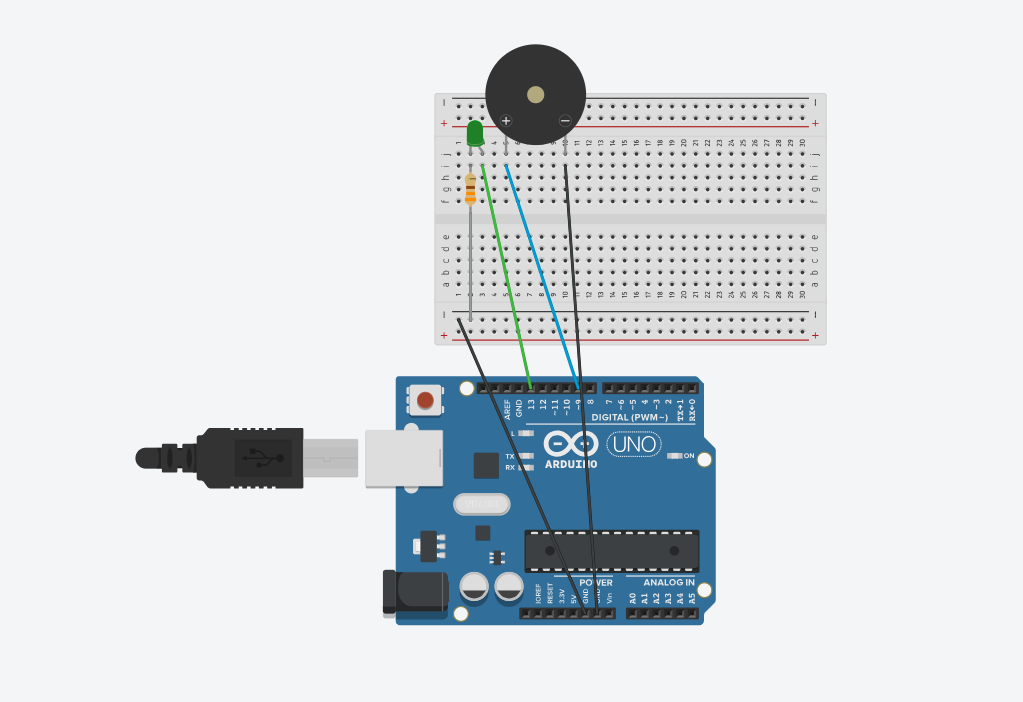
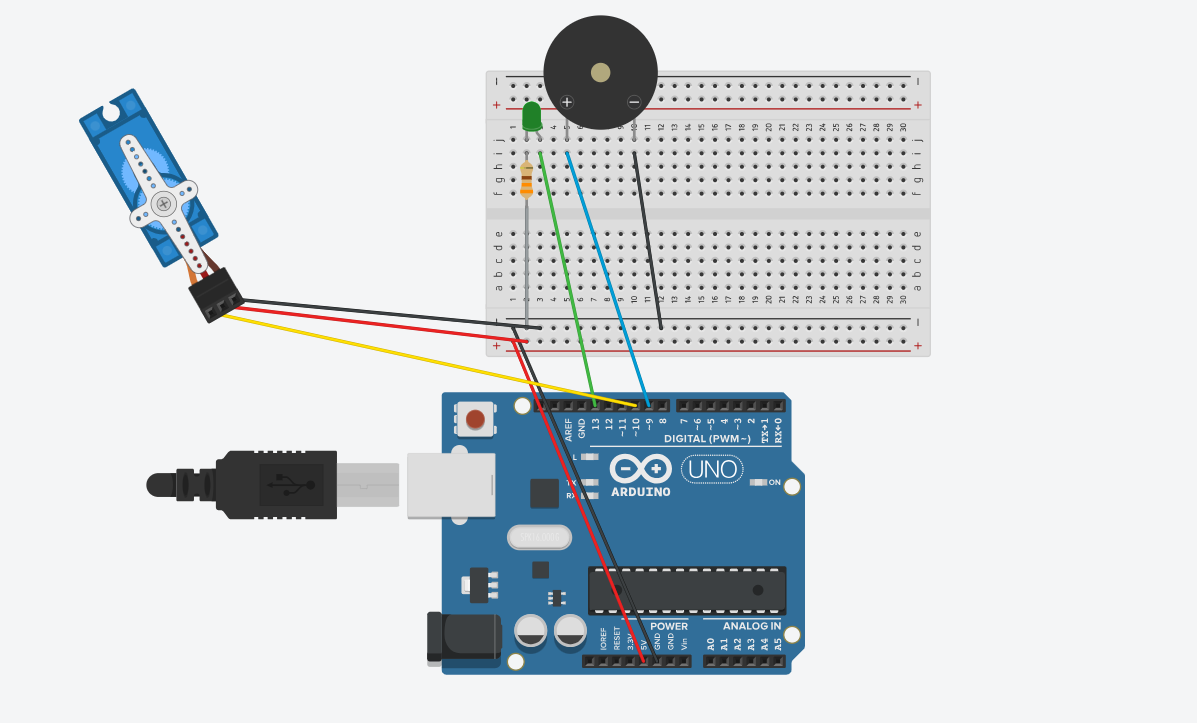
Atualizando para colocar o servo

Changed region(s): [[0.0606, 0.0, 0.8182, 0.9573]]

diff --git a/main.py b/main.py
@@ -1,49 +1,27 @@
 import cv2
 import mediapipe as mp
-from mediapipe.python.solutions.drawing_utils import _normalized_to_pixel_coordinates
 import math
 import numpy as np
 from serial import Serial
 import time
 
 
-def _map(x, in_min, in_max, out_min, out_max):
+def map_value(x, in_min, in_max, out_min, out_max):
+    """
+    Mapeia um valor de um intervalo para outro.
+    """
     return int((x - in_min) * (out_max - out_min) / (in_max - in_min) + out_min)
 
-
-def main():
-    mp_face_mesh = mp.solutions.face_mesh
-
-    cap = cv2.VideoCapture(0, cv2.CAP_DSHOW)
-
-    cap.set(cv2.CAP_PROP_FPS, 25.0)
-    width = cap.get(cv2.CAP_PROP_FRAME_WIDTH)
-    height = cap.get(cv2.CAP_PROP_FRAME_HEIGHT)
-    print(height)
-    ratios = []
-
-    openedEyes = 500
-    closedEyes = 0
-    blinkMap = 0
-    piscando = False
-    blinkCount = 0
-    calibrating = True
-
-    # Configurar a comunicação serial com o Arduino
-    arduino = Serial("COM3", 9600)  # Substitua 'COM5' pela porta correta do seu Arduino
-
-    closed_eye_start_time = None
-    eye_closed_duration = (
-        1  # Duration for which the eye should be closed to trigger the Arduino command
-    )
-
-    with mp_face_mesh.FaceMesh(
+def detect_face_landmarks(cap, width, height):
+    """
+    Detecta os marcos faciais na imagem.
+    """
+    with mp.solutions.face_mesh.FaceMesh(
         max_num_faces=1,
         refine_landmarks=True,
         min_detection_confidence=0.5,
         min_tracking_confidence=0.5,
     ) as face_mesh:
-
         while cap.isOpened():
             success, image = cap.read()
             if not success:
@@ -59,106 +37,177 @@ def main():
 
             if results.multi_face_landmarks:
                 face_landmarks = results.multi_face_landmarks[0].landmark
+                return image, face_landmarks
+    return None, None
 
-                cord1 = _normalized_to_pixel_coordinates(
-                    face_landmarks[159].x, face_landmarks[159].y, width, height
+def calculate_eye_ratios(face_landmarks, width, height):
+    """
+    Calcula as razões das distâncias entre os olhos.
+    """
+    cord1 = _normalized_to_pixel_coordinates(
+        face_landmarks[159].x, face_landmarks[159].y, width, height
+    )
+    cord2 = _normalized_to_pixel_coordinates(
+        face_landmarks[145].x, face_landmarks[145].y, width, height
+    )
+    cord3 = _normalized_to_pixel_coordinates(
+        face_landmarks[33].x, face_landmarks[33].y, width, height
+    )
+    cord4 = _normalized_to_pixel_coordinates(
+        face_landmarks[133].x, face_landmarks[133].y, width, height
+    )
+
+    dist = math.sqrt((cord1[0] - cord2[0]) ** 2 + (cord1[1] - cord2[1]) ** 2)
+    dist2 = math.sqrt((cord4[0] - cord3[0]) ** 2 + (cord4[1] - cord3[1]) ** 2)
+
+    ratio = dist2 / (dist + 0.001)
+    return ratio
+
+def draw_eye_lines(image, face_landmarks, width, height):
+    """
+    Desenha linhas entre os olhos na imagem.
+    """
+    cord1 = _normalized_to_pixel_coordinates(
+        face_landmarks[159].x, face_landmarks[159].y, width, height
+    )
+    cord2 = _normalized_to_pixel_coordinates(
+        face_landmarks[145].x, face_landmarks[145].y, width, height
+    )
+    cord3 = _normalized_to_pixel_coordinates(
+        face_landmarks[33].x, face_landmarks[33].y, width, height
+    )
+    cord4 = _normalized_to_pixel_coordinates(
+        face_landmarks[133].x, face_landmarks[133].y, width, height
+    )
+
+    cv2.line(image, cord1, cord2, (255, 0, 0), 4)
+    cv2.line(image, cord3, cord4, (0, 0, 255), 4)
+
+def draw_face_coordinates(image, face_landmarks, width):
+    """
+    Desenha as coordenadas x e y do rosto na imagem.
+    """
+    font = cv2.FONT_HERSHEY_SIMPLEX
+    x_coord = int(face_landmarks[0].x * width)
+    y_coord = int(face_landmarks[0].y * width)
+    cv2.putText(image, f'X: {x_coord}, Y: {y_coord}', (50, 100), font, 1, (255, 255, 255), 2, cv2.LINE_AA)
+
+def turn_servo_horizontal(arduino, face_landmarks, width):
+    """
+    Gira o servo motor horizontalmente com base na posição do rosto.
+    """
+    x_coord = face_landmarks[0].x * width
+    mid_point = width / 2
+    if x_coord < mid_point:
+        # Mover servo para a esquerda
+        arduino.write(b"L")
+    else:
+        # Mover servo para a direita
+        arduino.write(b"R")
+
+def _normalized_to_pixel_coordinates(
+    normalized_x, normalized_y, image_width, image_height
+):
+    """
+    Converte coordenadas normalizadas para coordenadas de pixel.
+    """
+    # Normalized coordinates range from 0 to 1, so multiply by image dimensions.
+    pixel_x = min(int(normalized_x * image_width), image_width - 1)
+    pixel_y = min(int(normalized_y * image_height), image_height - 1)
+    return pixel_x, pixel_y
+
+
+def main():
+    cap = cv2.VideoCapture(0, cv2.CAP_DSHOW)
+    cap.set(cv2.CAP_PROP_FPS, 25.0)
+    width = cap.get(cv2.CAP_PROP_FRAME_WIDTH)
+    height = cap.get(cv2.CAP_PROP_FRAME_HEIGHT)
+    print(height)
+    ratios = []
+
+    openedEyes = 500
+    closedEyes = 0
+    blinkMap = 0
+    piscando = False
+    blinkCount = 0
+    calibrating = True
+
+    arduino = Serial("COM3", 9600)
+
+    closed_eye_start_time = None
+    eye_closed_duration = 0.8
+
+    while True:
+        image, face_landmarks = detect_face_landmarks(cap, width, height)
+
+        if image is not None and face_landmarks is not None:
+            ratio = calculate_eye_ratios(face_landmarks, width, height)
+            ratios.append(ratio)
+
+            if len(ratios) == 5:
+                ratios.pop(0)
+
+            mediaRatio = np.mean(ratios)
+            ratioMapped = map_value(mediaRatio, 0, 40, 40, 0)
+            draw_eye_lines(image, face_landmarks, width, height)
+            draw_face_coordinates(image, face_landmarks, width)
+
+            if calibrating:
+                if ratioMapped < openedEyes and piscando == False:
+                    blinkCount += 1
+                    openedEyes = ratioMapped
+                    piscando = True
+
+                if ratioMapped >= closedEyes and piscando == True:
+                    closedEyes = ratioMapped
+                    piscando = False
+
+                if blinkCount >= 5:
+                    blinkMap = closedEyes + (openedEyes - closedEyes) / 2
+                    calibrating = False
+                    blinkCount = 0
+            else:
+                if ratioMapped < blinkMap and piscando == False:
+                    piscando = True
+                    closed_eye_start_time = time.time()
+
+                if ratioMapped >= blinkMap + 1 and piscando == True:
+                    piscando = False
+                    closed_eye_start_time = None
+
+                if (
+                    piscando
+                    and closed_eye_start_time is not None
+                    and (time.time() - closed_eye_start_time) >= eye_closed_duration
+                ):
+                    blinkCount += 1
+                    piscando = False
+                    closed_eye_start_time = None
+                    arduino.write(b"1")
+            font = cv2.FONT_HERSHEY_SIMPLEX
+
+            if calibrating:
+                cv2.putText(
+                    image,
+                    "Pisque para calibrar o dispositivo",
+                    (50, 50),
+                    font,
+                    1,
+                    (0, 255, 0),
+                    2,
+                    cv2.LINE_AA,
                 )
-                cord2 = _normalized_to_pixel_coordinates(
-                    face_landmarks[145].x, face_landmarks[145].y, width, height
+            else:
+                cv2.putText(
+                    image,
+                    f"{blinkCount}",
+                    (50, 50),
+                    font,
+                    1,
+                    (0, 0, 255),
+                    2,
+                    cv2.LINE_AA,
                 )
-                cord3 = _normalized_to_pixel_coordinates(
-                    face_landmarks[33].x, face_landmarks[33].y, width, height
-                )
-                cord4 = _normalized_to_pixel_coordinates(
-                    face_landmarks[133].x, face_landmarks[133].y, width, height
-                )
-
-                cv2.line(image, cord1, cord2, (255, 0, 0), 4)
-                cv2.line(image, cord3, cord4, (0, 0, 255), 4)
-
-                dist = math.sqrt(
-                    (cord1[0] - cord2[0]) ** 2 + (cord1[1] - cord2[1]) ** 2
-                )
-                dist2 = math.sqrt(
-                    (cord4[0] - cord3[0]) ** 2 + (cord4[1] - cord3[1]) ** 2
-                )
-
-                ratio = dist2 / (dist + 0.001)
-                ratios.append(ratio)
-
-                if len(ratios) == 5:
-                    ratios.pop(0)
-
-                mediaRatio = np.mean(ratios)
-                ratioMapped = _map(mediaRatio, 0, 40, 40, 0)
-
-                print(ratioMapped)
-
-                if calibrating:
-
-                    if ratioMapped < openedEyes and piscando == False:
-                        blinkCount += 1
-                        openedEyes = ratioMapped
-
-                        piscando = True
-
-                    if ratioMapped >= closedEyes and piscando == True:
-                        closedEyes = ratioMapped
-                        piscando = False
-
-                    if blinkCount >= 5:
-                        blinkMap = closedEyes + (openedEyes - closedEyes) / 2
-                        calibrating = False
-                        blinkCount = 0
-                else:
-                    print("---blink-map---", blinkMap)
-                    if ratioMapped < blinkMap and piscando == False:
-                        piscando = True
-                        closed_eye_start_time = (
-                            time.time()
-                        )  # Start timing when the eye is detected closed
-
-                    if ratioMapped >= blinkMap + 1 and piscando == True:
-                        piscando = False
-                        closed_eye_start_time = (
-                            None  # Reset timing when the eye is detected open
-                        )
-
-                    if (
-                        piscando
-                        and closed_eye_start_time is not None
-                        and (time.time() - closed_eye_start_time) >= eye_closed_duration
-                    ):
-                        blinkCount += 1
-                        piscando = False
-                        closed_eye_start_time = None  # Reset timing
-                        # Envia um comando para o Arduino quando o olho estiver fechado por 1.5 segundos
-                        arduino.write(b"1")
-
-                font = cv2.FONT_HERSHEY_SIMPLEX
-
-                if calibrating:
-                    cv2.putText(
-                        image,
-                        "Pisque para calibrar o dispositivo",
-                        (50, 50),
-                        font,
-                        1,
-                        (0, 255, 0),
-                        2,
-                        cv2.LINE_AA,
-                    )
-                else:
-                    cv2.putText(
-                        image,
-                        f"{blinkCount}",
-                        (50, 50),
-                        font,
-                        1,
-                        (0, 0, 255),
-                        2,
-                        cv2.LINE_AA,
-                    )
 
             cv2.imshow("MediaPipe Face Mesh", image)
 
